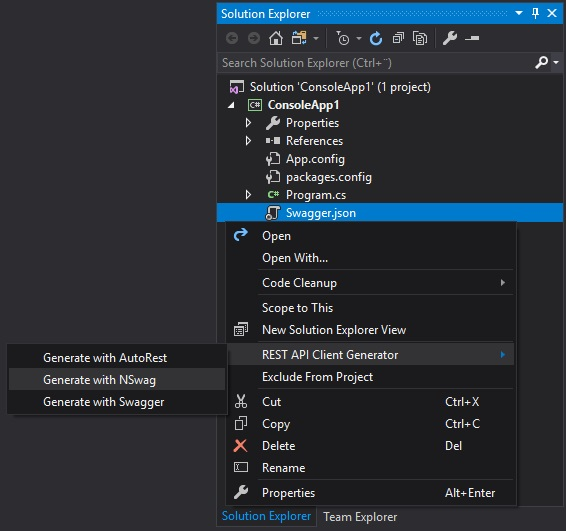
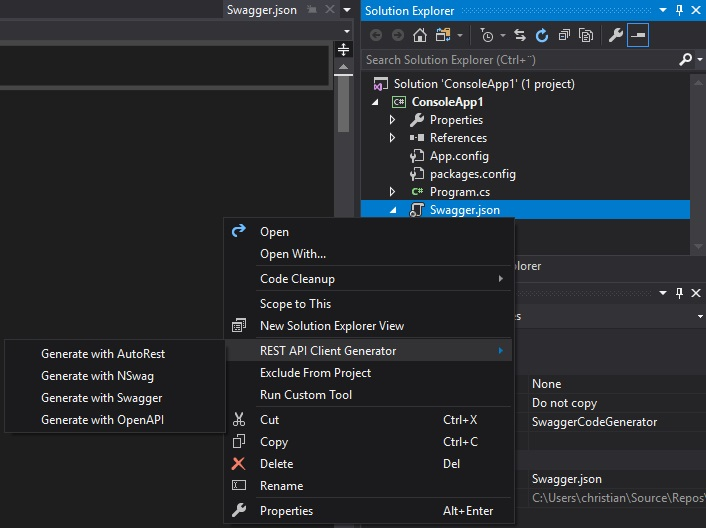
Update screenshots and README

diff --git a/README.md b/README.md
@@ -42,5 +42,7 @@ The custom tool code generators piggy back on top of well known Open API client 
 
 ![SwaggerCodeGenerator](https://github.com/christianhelle/apiclientcodegen/raw/master/images/swaggercodegenerator-custom-tool.jpg)
 
+![OpenApiCodeGenerator](https://github.com/christianhelle/apiclientcodegen/raw/master/images/openapicodegenerator-custom-tool.jpg)
+
 
 ***More custom tools coming soon...***
